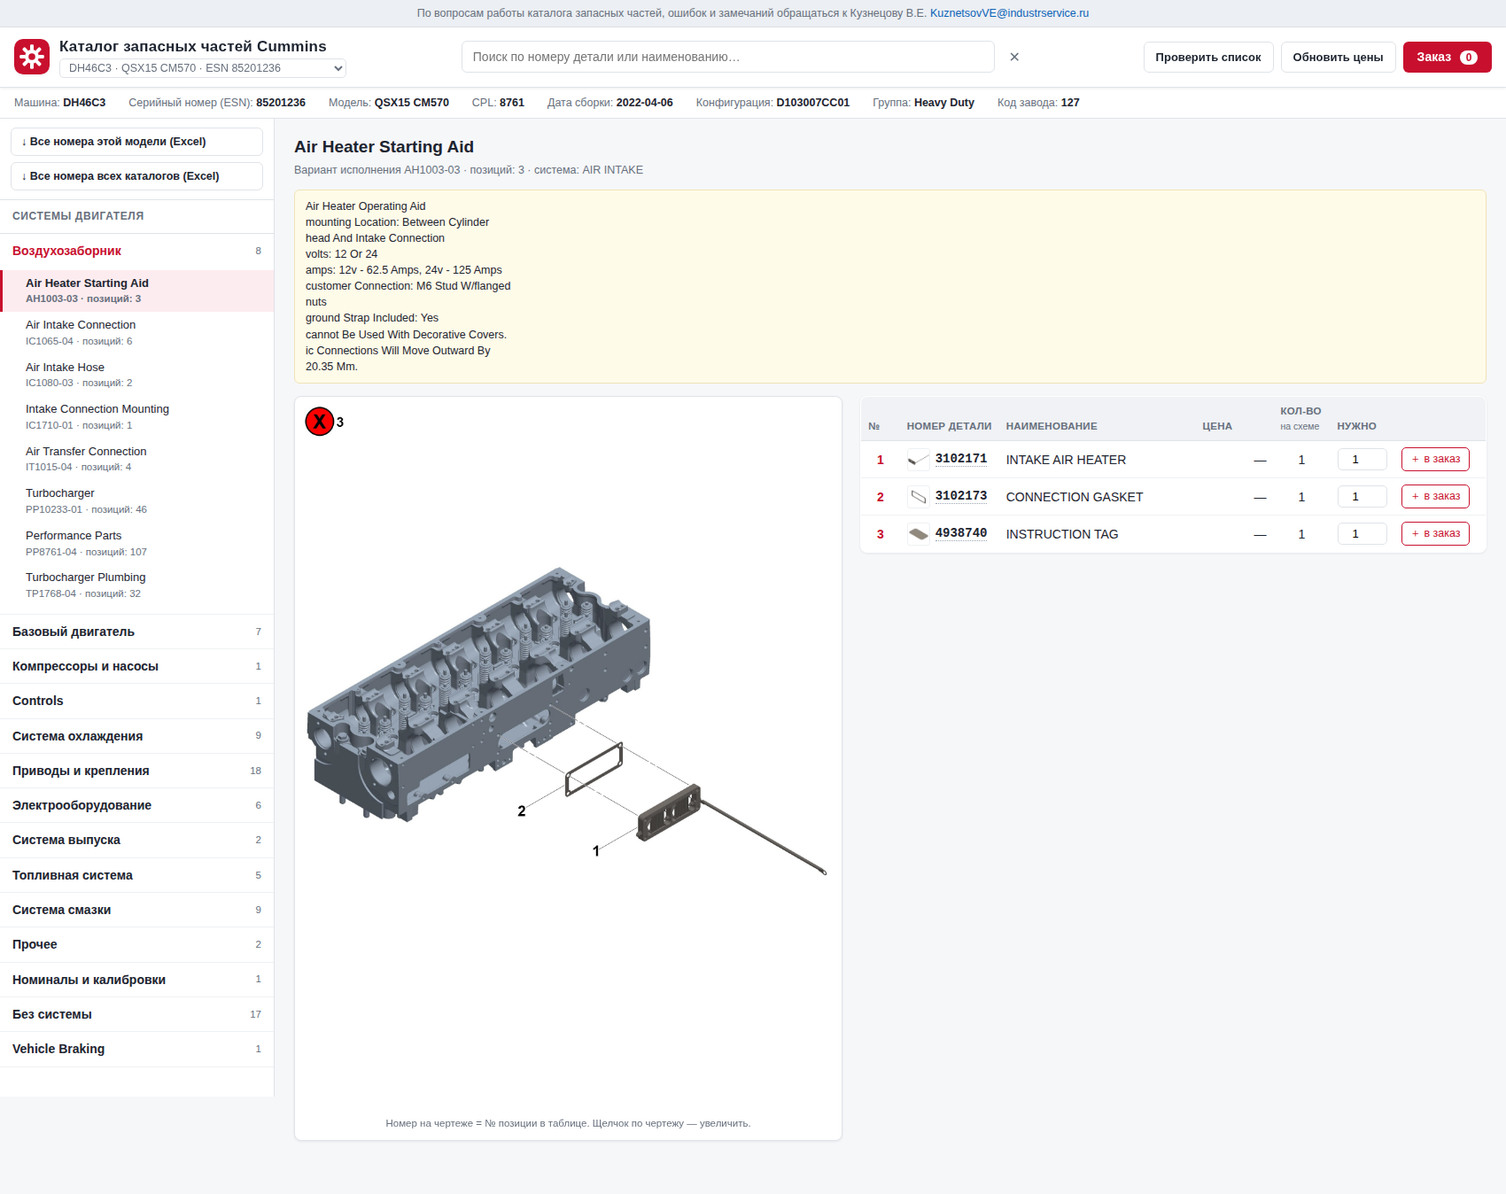
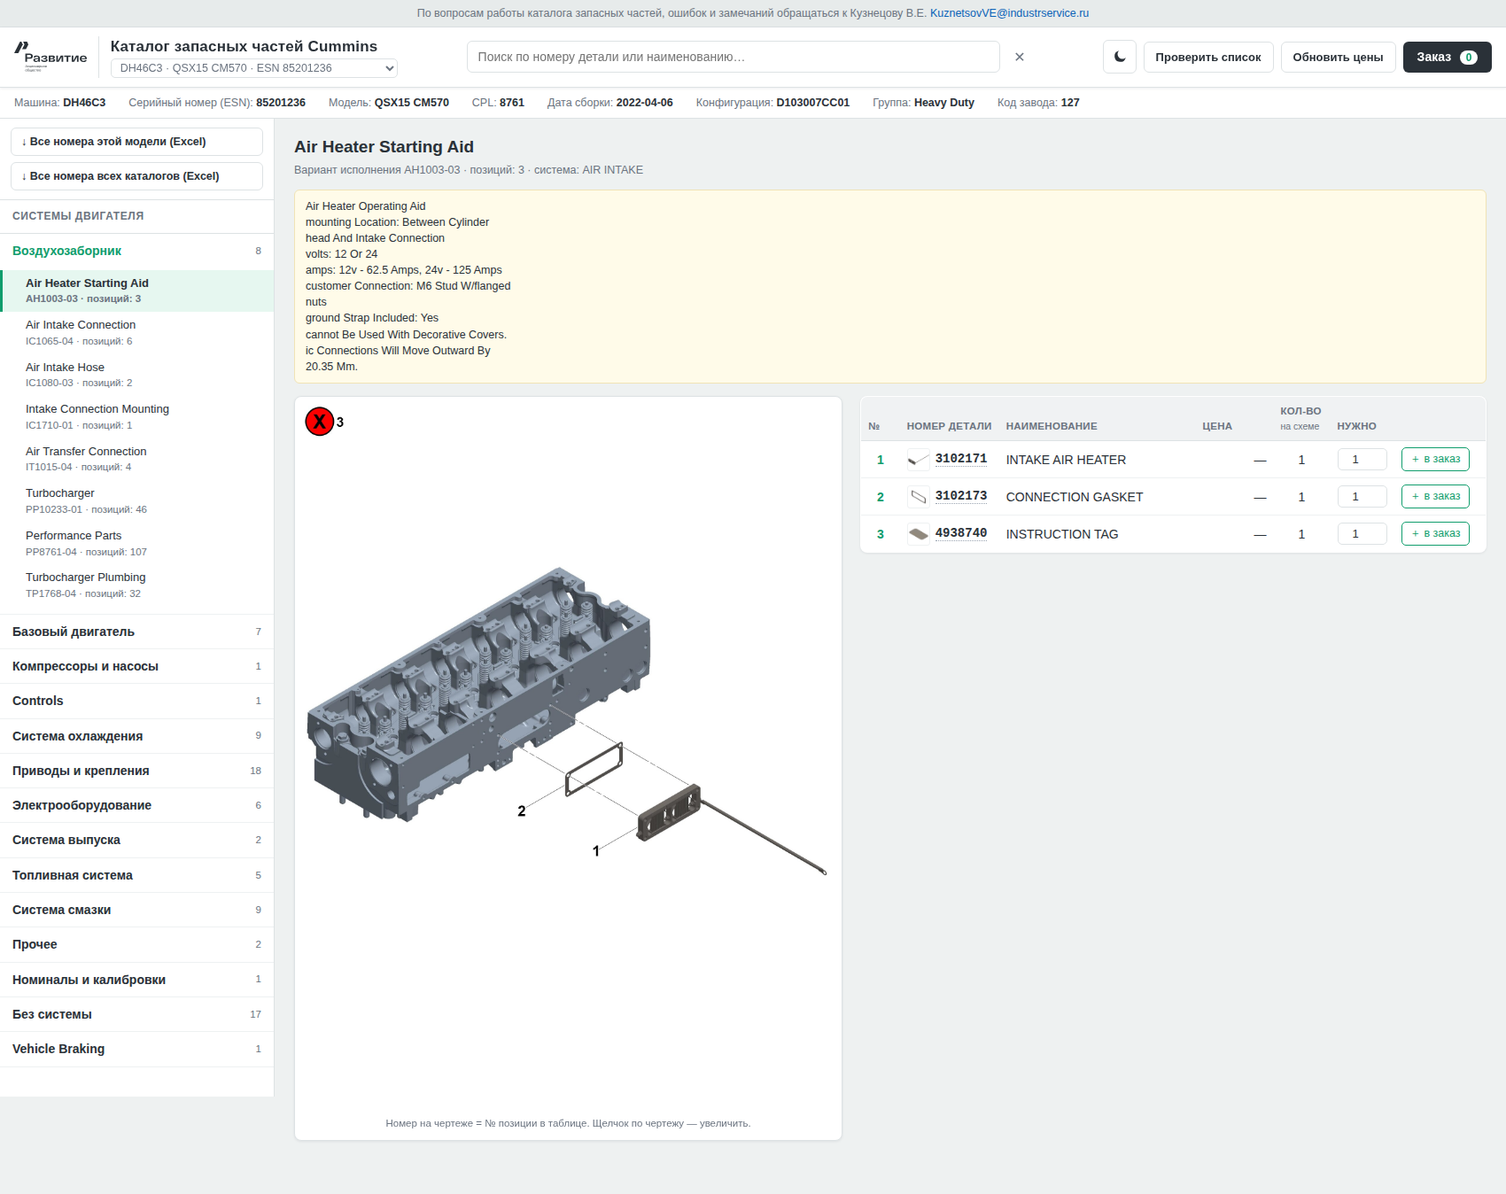
Фирменный стиль «Развитие»: логотип и светлая/тёмная тема
Оформление приведено к брендбуку компании «Развитие» (шаблон из main):
логотип «Развитие» в шапке (векторные лого из брендбука — графитовый
вариант для светлого фона, мятный+белый для тёмного), акцент мятный
#3EF0AF, графит #2A3138, favicon — фирменный знак.

Добавлена тёмная тема и переключатель в шапке (☾/☀): выбор сохраняется
в браузере, при первом открытии берётся из системной настройки
(prefers-color-scheme). Тема применяется до отрисовки — без мигания.
Все цвета переведены на CSS-переменные, обе темы согласованы; чертежи и
фото остаются на белых карточках для читаемости.

Проверено в браузере: обе темы, переключение и запоминание работают,
логотип меняется по теме, verify_catalog.py проходит, ошибок в консоли нет.

Claude-Session: https://claude.ai/code/session_014BttEpUctxYgEDwLWD1A33

diff --git a/catalog/styles.css b/catalog/styles.css
@@ -1,9 +1,38 @@
-/* Каталог запасных частей Cummins — светлое оформление */
-:root{
-  --bg:#f6f7f9; --panel:#ffffff; --line:#dfe3e8; --line-soft:#eef1f4;
-  --text:#1d2430; --muted:#67707d; --accent:#c8102e; --accent-soft:#fdecef;
-  --ok:#1f7a4d; --shadow:0 1px 3px rgba(20,30,50,.08);
+/* Каталог запасных частей Cummins — фирменный стиль «Развитие».
+   Светлая и тёмная темы, переключаются кнопкой в шапке.
+   Акцент — мятный #3EF0AF, графит #2A3138 (по брендбуку). */
+:root, :root[data-theme="light"]{
+  --bg:#eef1f1; --panel:#ffffff; --line:#dde2e4; --line-soft:#eef1f2;
+  --text:#2A3138; --muted:#6b7480;
+  --accent:#2A3138;          /* основная кнопка — графит */
+  --accent-ink:#ffffff;      /* текст на основной кнопке */
+  --accent-hover:#3a444d;
+  --brand:#0f9d6c;           /* фирменный зелёный, читаемый на светлом */
+  --accent-2:#0f9d6c;        /* ссылки, активные элементы, акценты */
+  --accent-soft:#e6f7f0;     /* мягкая зелёная подсветка строки */
+  --ok:#0f8f5c;
+  --th-bg:#f0f2f3; --hover:#f7f9f9; --field:#ffffff; --focus:#dff3ec;
+  --contacts-bg:#e7ebeb; --note-bg:#fffbe9; --note-line:#f0e3b5;
+  --danger:#c02a3a; --danger-soft:#fbeef0;
+  --shadow:0 1px 3px rgba(20,30,50,.08);
 }
+:root[data-theme="dark"]{
+  --bg:#1c2227; --panel:#2A3138; --line:#3b444d; --line-soft:#343d45;
+  --text:#eaeef1; --muted:#9aa5ae;
+  --accent:#3EF0AF;          /* основная кнопка — мятный */
+  --accent-ink:#10261e;      /* тёмный текст на мятной кнопке */
+  --accent-hover:#5cf4bd;
+  --brand:#3EF0AF;
+  --accent-2:#3EF0AF;
+  --accent-soft:#2f3d39;
+  --ok:#3EF0AF;
+  --th-bg:#333c44; --hover:#313a42; --field:#242b31; --focus:rgba(62,240,175,.22);
+  --contacts-bg:#242b31; --note-bg:#3a3a2c; --note-line:#585840;
+  --danger:#ff8a94; --danger-soft:#3a2a2d;
+  --shadow:0 1px 3px rgba(0,0,0,.35);
+}
+html{color-scheme:light}
+:root[data-theme="dark"]{color-scheme:dark}
 *{box-sizing:border-box}
 html,body{margin:0;padding:0}
 body{
@@ -15,7 +44,7 @@ a{color:#0b63b8}
 
 /* --- строка контактов --- */
 .contacts{
-  background:#eceff3; border-bottom:1px solid var(--line);
+  background:var(--contacts-bg); border-bottom:1px solid var(--line);
   padding:6px 16px; font-size:12.5px; color:var(--muted); text-align:center;
 }
 .contacts a{color:#0b63b8; text-decoration:none}
@@ -33,22 +62,22 @@ a{color:#0b63b8}
 .search-box{flex:1; display:flex; align-items:center; gap:6px; max-width:640px; margin:0 auto}
 .search-box input{
   flex:1; padding:9px 12px; border:1px solid var(--line); border-radius:6px;
-  font-size:14px; background:#fff;
+  font-size:14px; background:var(--field); color:var(--text);
 }
-.search-box input:focus{outline:none; border-color:#9fb6d4; box-shadow:0 0 0 3px #e8f0fa}
+.search-box input:focus{outline:none; border-color:var(--accent-2); box-shadow:0 0 0 3px var(--focus)}
 .btn-plain{
   background:none; border:1px solid transparent; color:var(--muted);
   font-size:16px; cursor:pointer; padding:4px 8px; border-radius:5px;
 }
 .btn-plain:hover{background:var(--line-soft); color:var(--text)}
 .btn-cart{
-  background:var(--accent); color:#fff; border:none; border-radius:6px;
+  background:var(--accent); color:var(--accent-ink); border:none; border-radius:6px;
   padding:9px 16px; font-size:14px; font-weight:600; cursor:pointer;
 }
-.btn-cart:hover{background:#a80d26}
+.btn-cart:hover{background:var(--accent-hover)}
 .badge{
   display:inline-block; min-width:20px; padding:1px 6px; margin-left:6px;
-  background:#fff; color:var(--accent); border-radius:10px;
+  background:var(--panel); color:var(--accent-2); border-radius:10px;
   font-size:12px; font-weight:700; text-align:center;
 }
 
@@ -83,7 +112,7 @@ a{color:#0b63b8}
 }
 .tree-sys-head:hover{background:var(--line-soft)}
 .tree-sys-head .cnt{font-size:11.5px; color:var(--muted); font-weight:500}
-.tree-sys.open .tree-sys-head{color:var(--accent)}
+.tree-sys.open .tree-sys-head{color:var(--accent-2)}
 .tree-opts{display:none; padding:2px 0 8px}
 .tree-sys.open .tree-opts{display:block}
 .tree-opt{
@@ -91,14 +120,14 @@ a{color:#0b63b8}
   font-size:13px; color:var(--text); border-left:3px solid transparent;
 }
 .tree-opt:hover{background:var(--line-soft)}
-.tree-opt.active{background:var(--accent-soft); border-left-color:var(--accent); font-weight:600}
+.tree-opt.active{background:var(--accent-soft); border-left-color:var(--accent-2); color:var(--text); font-weight:600}
 .tree-opt .no{color:var(--muted); font-size:11.5px; display:block}
 
 /* --- узел --- */
 .view-title{margin:0 0 4px; font-size:19px}
 .opt-meta{font-size:12.5px; color:var(--muted); margin-bottom:12px}
 .remarks{
-  background:#fffbe9; border:1px solid #f0e3b5; border-radius:6px;
+  background:var(--note-bg); border:1px solid var(--note-line); border-radius:6px;
   padding:9px 12px; margin-bottom:14px; font-size:12.5px; white-space:pre-line;
 }
 .option-body{display:flex; gap:20px; align-items:flex-start}
@@ -125,21 +154,21 @@ a{color:#0b63b8}
 table.parts{width:100%; border-collapse:collapse; background:var(--panel);
   border:1px solid var(--line); border-radius:8px; overflow:hidden; box-shadow:var(--shadow)}
 table.parts th{
-  background:#f0f2f5; text-align:left; font-size:11.5px; letter-spacing:.3px;
+  background:var(--th-bg); text-align:left; font-size:11.5px; letter-spacing:.3px;
   text-transform:uppercase; color:var(--muted); padding:8px 8px; border-bottom:1px solid var(--line);
   vertical-align:bottom;
 }
 .th-sub{text-transform:none; letter-spacing:0; font-weight:400; font-size:10.5px}
 table.parts td{padding:7px 8px; border-bottom:1px solid var(--line-soft); vertical-align:middle}
 table.parts tr:last-child td{border-bottom:none}
-table.parts tr:hover td{background:#fafbfc}
+table.parts tr:hover td{background:var(--hover)}
 .c-pos{width:44px; text-align:center}
 .c-no{width:112px}
 .c-price{width:88px; text-align:right}
 .c-qty{width:64px; text-align:center}
 .c-need{width:72px; text-align:center}
 .c-add{width:104px}
-td.c-pos{text-align:center; font-weight:700; color:var(--accent)}
+td.c-pos{text-align:center; font-weight:700; color:var(--accent-2)}
 td.c-asm{font-size:10px; font-weight:600; color:var(--muted); text-transform:uppercase;
   letter-spacing:.3px; line-height:1.1}
 td.c-qty{text-align:center}
@@ -152,16 +181,16 @@ td.c-price{text-align:right; white-space:nowrap}
 .lvl1 td.c-name{padding-left:22px}
 .lvl2 td.c-name{padding-left:38px}
 .need-input{
-  width:56px; padding:4px 6px; text-align:center;
+  width:56px; padding:4px 6px; text-align:center; background:var(--field); color:var(--text);
   border:1px solid var(--line); border-radius:5px; font-size:13px;
 }
-.need-input:focus{outline:none; border-color:#9fb6d4}
+.need-input:focus{outline:none; border-color:var(--accent-2); box-shadow:0 0 0 3px var(--focus)}
 .btn-add{
-  background:#fff; border:1px solid var(--accent); color:var(--accent);
+  background:var(--field); border:1px solid var(--accent-2); color:var(--accent-2);
   border-radius:5px; padding:4px 9px; font-size:12.5px; cursor:pointer; white-space:nowrap;
 }
-.btn-add:hover{background:var(--accent); color:#fff}
-.btn-add.done{border-color:var(--ok); color:#fff; background:var(--ok)}
+.btn-add:hover{background:var(--accent-2); color:#fff}
+.btn-add.done{border-color:var(--ok); color:var(--accent-ink); background:var(--ok)}
 .no-drawing{padding:26px 12px; text-align:center; color:var(--muted); font-size:13px}
 
 /* --- поиск --- */
@@ -170,11 +199,11 @@ td.c-price{text-align:right; white-space:nowrap}
   padding:9px 12px; margin-bottom:7px; cursor:pointer; display:flex;
   gap:12px; align-items:baseline; box-shadow:var(--shadow);
 }
-.search-hit:hover{border-color:#9fb6d4; background:#fafcff}
+.search-hit:hover{border-color:var(--accent-2); background:var(--hover)}
 .search-hit .hit-no{font-family:Consolas,monospace; font-weight:700; min-width:104px}
 .search-hit .hit-name{flex:1}
 .search-hit .hit-where{font-size:12px; color:var(--muted)}
-mark{background:#ffe9a8; padding:0 1px}
+mark{background:#ffe08a; color:#3a2c00; padding:0 1px; border-radius:2px}
 
 /* --- корзина --- */
 .overlay{position:fixed; inset:0; background:rgba(20,28,40,.35); z-index:40}
@@ -188,7 +217,7 @@ mark{background:#ffe9a8; padding:0 1px}
 .cart-head h2{margin:0; font-size:17px}
 .cart-serial{padding:10px 16px; border-bottom:1px solid var(--line-soft)}
 .cart-serial label{display:block; font-size:12px; color:var(--muted); margin-bottom:4px}
-.cart-serial input{width:100%; max-width:280px; padding:7px 10px;
+.cart-serial input{width:100%; max-width:280px; padding:7px 10px; background:var(--field); color:var(--text);
   border:1px solid var(--line); border-radius:5px; font-size:13px}
 .cart-body{flex:1; overflow-y:auto; padding:8px 16px}
 .cart-table{width:100%; border-collapse:collapse}
@@ -203,11 +232,12 @@ mark{background:#ffe9a8; padding:0 1px}
   display:flex; justify-content:space-between; align-items:center; gap:12px; flex-wrap:wrap}
 .cart-total{font-size:15px}
 .cart-actions{display:flex; gap:8px}
-.btn{background:#fff; border:1px solid var(--line); border-radius:6px;
+.btn{background:var(--field); color:var(--text); border:1px solid var(--line); border-radius:6px;
   padding:8px 14px; font-size:13px; cursor:pointer}
-.btn:hover{background:var(--line-soft)}
-.btn-danger{border-color:#e6b5be; color:var(--accent)}
-.btn-danger:hover{background:var(--accent-soft)}
+.btn:hover{background:var(--hover)}
+.btn:disabled{opacity:.5; cursor:default}
+.btn-danger{border-color:var(--danger); color:var(--danger)}
+.btn-danger:hover{background:var(--danger-soft)}
 
 /* --- карточка детали --- */
 .part-card{
@@ -236,13 +266,13 @@ mark{background:#ffe9a8; padding:0 1px}
 .pc-used span{background:var(--line-soft); border-radius:4px; padding:2px 7px; font-size:12px}
 .sup-chain{display:flex; flex-wrap:wrap; align-items:center; gap:7px}
 .sup-no{font-family:Consolas,monospace; font-weight:700; padding:3px 9px;
-  border:1px solid var(--line); border-radius:5px; background:#fff; cursor:pointer}
-.sup-no.old{color:var(--muted); text-decoration:line-through; background:#f6f7f9}
-.sup-no.cur{border-color:var(--ok); color:var(--ok); background:#f1f9f4}
+  border:1px solid var(--line); border-radius:5px; background:var(--field); cursor:pointer}
+.sup-no.old{color:var(--muted); text-decoration:line-through; background:var(--hover)}
+.sup-no.cur{border-color:var(--ok); color:var(--ok); background:var(--accent-soft)}
 .sup-arrow{color:var(--muted)}
 .sup-note{font-size:12px; color:var(--muted); margin-top:6px}
 .pn-link{cursor:pointer; border-bottom:1px dotted #9aa4b1}
-.pn-link:hover{color:var(--accent); border-bottom-color:var(--accent)}
+.pn-link:hover{color:var(--accent-2); border-bottom-color:var(--accent-2)}
 .chip-sup{display:inline-block; margin-left:6px; font-size:10.5px; font-weight:700;
   color:#8a5b00; background:#fff2cf; border:1px solid #f0dca6; border-radius:9px; padding:0 6px}
 
@@ -268,20 +298,35 @@ mark{background:#ffe9a8; padding:0 1px}
   .cart-table th{color:#000}
 }
 
-/* --- логотип и заголовок в шапке --- */
-.brand{display:flex; align-items:center; gap:11px}
+/* --- логотип «Развитие» и заголовок в шапке --- */
+.brand{display:flex; align-items:center; gap:13px}
 .brand-logo{flex:0 0 auto; display:inline-flex; line-height:0}
-.brand-logo svg{display:block; border-radius:10px; box-shadow:var(--shadow)}
-.brand-text{min-width:0}
+.brand-logo img{display:block; height:34px; width:auto}
+.brand-logo .logo-dark{display:none}
+:root[data-theme="dark"] .brand-logo .logo-light{display:none}
+:root[data-theme="dark"] .brand-logo .logo-dark{display:block}
+.brand-text{min-width:0; border-left:1px solid var(--line); padding-left:13px}
+.brand-title{color:var(--text)}
 
 /* --- инструменты в шапке --- */
 .topbar-tools{display:flex; align-items:center; gap:8px; flex:0 0 auto}
 .btn-tool{
-  background:#fff; border:1px solid var(--line); color:var(--text);
+  background:var(--field); border:1px solid var(--line); color:var(--text);
   border-radius:6px; padding:9px 13px; font-size:13px; font-weight:600;
   cursor:pointer; white-space:nowrap;
 }
-.btn-tool:hover{background:var(--line-soft); border-color:#c3ccd6}
+.btn-tool:hover{background:var(--hover); border-color:var(--accent-2)}
+/* кнопка-иконка (переключатель темы) */
+.btn-icon{
+  display:inline-flex; align-items:center; justify-content:center; width:38px; height:38px;
+  background:var(--field); border:1px solid var(--line); color:var(--text);
+  border-radius:6px; cursor:pointer; flex:0 0 auto;
+}
+.btn-icon:hover{background:var(--hover); border-color:var(--accent-2); color:var(--accent-2)}
+.btn-icon .ico-sun{display:none}
+.btn-icon .ico-moon{display:block}
+:root[data-theme="dark"] .btn-icon .ico-sun{display:block}
+:root[data-theme="dark"] .btn-icon .ico-moon{display:none}
 
 /* --- кнопки выгрузки в боковой панели --- */
 .sidebar-export{
@@ -290,10 +335,10 @@ mark{background:#ffe9a8; padding:0 1px}
 }
 .btn-export{
   display:block; width:100%; text-align:left;
-  background:#fff; border:1px solid var(--line); color:var(--text);
+  background:var(--field); border:1px solid var(--line); color:var(--text);
   border-radius:6px; padding:8px 11px; font-size:12.5px; font-weight:600; cursor:pointer;
 }
-.btn-export:hover{background:var(--accent-soft); border-color:#e6b5be; color:var(--accent)}
+.btn-export:hover{background:var(--accent-soft); border-color:var(--accent-2); color:var(--accent-2)}
 
 /* --- боковая панель проверки списка --- */
 .side-panel{
@@ -305,9 +350,10 @@ mark{background:#ffe9a8; padding:0 1px}
 .check-hint{font-size:12.5px; color:var(--muted); margin:0 0 10px}
 #check-input{
   width:100%; padding:10px 12px; border:1px solid var(--line); border-radius:7px;
-  font:13px/1.4 Consolas,"Courier New",monospace; resize:vertical; background:#fff;
+  font:13px/1.4 Consolas,"Courier New",monospace; resize:vertical;
+  background:var(--field); color:var(--text);
 }
-#check-input:focus{outline:none; border-color:#9fb6d4; box-shadow:0 0 0 3px #e8f0fa}
+#check-input:focus{outline:none; border-color:var(--accent-2); box-shadow:0 0 0 3px var(--focus)}
 .check-actions{display:flex; flex-wrap:wrap; gap:8px; margin:12px 0}
 .check-summary{display:flex; flex-wrap:wrap; gap:8px; margin:6px 0 12px}
 .check-summary .pill{
@@ -326,7 +372,7 @@ mark{background:#ffe9a8; padding:0 1px}
 }
 .check-results td{padding:6px 8px; border-bottom:1px solid var(--line-soft); vertical-align:top}
 .check-results .r-no{font-family:Consolas,monospace; font-weight:700; white-space:nowrap}
-.check-results tr.st-no td{background:#fdf4f5}
+.check-results tr.st-no td{background:var(--danger-soft)}
 .status{display:inline-block; font-size:11.5px; font-weight:700; border-radius:9px; padding:1px 8px}
 .status.ok{background:#f1f9f4; color:var(--ok)}
 .status.sup{background:#fff2cf; color:#8a5b00}
@@ -342,7 +388,7 @@ mark{background:#ffe9a8; padding:0 1px}
 
 /* переключатель двигателя и подпись в заказе */
 #engine-select{
-  border:1px solid var(--line); border-radius:5px; background:#fff;
+  border:1px solid var(--line); border-radius:5px; background:var(--field);
   font-size:12.5px; color:var(--muted); padding:2px 6px; max-width:420px;
 }
 #engine-select:disabled{border-color:transparent; background:none; -webkit-appearance:none; appearance:none}

diff --git a/catalog/index.html b/catalog/index.html
@@ -4,7 +4,16 @@
 <meta charset="utf-8">
 <meta name="viewport" content="width=device-width, initial-scale=1">
 <title>Каталог запасных частей Cummins</title>
+<link rel="icon" href="brand/razvitie-mark.svg">
 <link rel="stylesheet" href="styles.css">
+<script>
+  /* тема применяется до отрисовки, чтобы не мигало */
+  (function(){try{
+    var t=localStorage.getItem("cummins_theme");
+    if(!t)t=matchMedia("(prefers-color-scheme: dark)").matches?"dark":"light";
+    document.documentElement.setAttribute("data-theme",t);
+  }catch(e){document.documentElement.setAttribute("data-theme","light");}})();
+</script>
 </head>
 <body>
 
@@ -15,22 +24,9 @@
 
 <header class="topbar">
   <div class="brand">
-    <span class="brand-logo" aria-hidden="true">
-      <svg viewBox="0 0 48 48" width="40" height="40" role="img" aria-label="Логотип">
-        <rect width="48" height="48" rx="10" fill="var(--accent)"/>
-        <g fill="#fff" transform="translate(24,24)">
-          <rect x="-2.4" y="-16.5" width="4.8" height="8" rx="1.6"/>
-          <rect x="-2.4" y="-16.5" width="4.8" height="8" rx="1.6" transform="rotate(45)"/>
-          <rect x="-2.4" y="-16.5" width="4.8" height="8" rx="1.6" transform="rotate(90)"/>
-          <rect x="-2.4" y="-16.5" width="4.8" height="8" rx="1.6" transform="rotate(135)"/>
-          <rect x="-2.4" y="-16.5" width="4.8" height="8" rx="1.6" transform="rotate(180)"/>
-          <rect x="-2.4" y="-16.5" width="4.8" height="8" rx="1.6" transform="rotate(225)"/>
-          <rect x="-2.4" y="-16.5" width="4.8" height="8" rx="1.6" transform="rotate(270)"/>
-          <rect x="-2.4" y="-16.5" width="4.8" height="8" rx="1.6" transform="rotate(315)"/>
-          <circle r="9.5"/>
-        </g>
-        <circle cx="24" cy="24" r="4.6" fill="var(--accent)"/>
-      </svg>
+    <span class="brand-logo" aria-label="Развитие">
+      <img class="logo-light" src="brand/razvitie-light.svg" alt="Развитие">
+      <img class="logo-dark"  src="brand/razvitie-dark.svg"  alt="Развитие">
     </span>
     <div class="brand-text">
       <div class="brand-title">Каталог запасных частей Cummins</div>
@@ -45,6 +41,16 @@
     <button id="search-clear" class="btn-plain" title="Очистить">✕</button>
   </div>
   <div class="topbar-tools">
+    <button id="theme-toggle" class="btn-icon" title="Светлая / тёмная тема" aria-label="Переключить тему">
+      <svg class="ico-sun" viewBox="0 0 24 24" width="18" height="18" fill="none"
+           stroke="currentColor" stroke-width="2" stroke-linecap="round">
+        <circle cx="12" cy="12" r="4.2"/>
+        <path d="M12 2.5v2.5M12 19v2.5M2.5 12h2.5M19 12h2.5M5 5l1.8 1.8M17.2 17.2 19 19M19 5l-1.8 1.8M6.8 17.2 5 19"/>
+      </svg>
+      <svg class="ico-moon" viewBox="0 0 24 24" width="18" height="18" fill="currentColor">
+        <path d="M21 13.2A8.5 8.5 0 1 1 10.8 3 6.8 6.8 0 0 0 21 13.2Z"/>
+      </svg>
+    </button>
     <button id="check-list" class="btn-tool"
             title="Проверить свой список номеров на наличие в каталоге">Проверить список</button>
     <button id="update-prices" class="btn-tool"

diff --git a/catalog/app.js b/catalog/app.js
@@ -999,6 +999,16 @@ $("price-file").addEventListener("change", function () {
   this.value = "";
 });
 
+/* --- переключатель светлой/тёмной темы (по брендбуку «Развитие») --- */
+function currentTheme() { return document.documentElement.getAttribute("data-theme") || "light"; }
+function setTheme(t) {
+  document.documentElement.setAttribute("data-theme", t);
+  try { localStorage.setItem("cummins_theme", t); } catch (e) {}
+}
+$("theme-toggle").onclick = function () {
+  setTheme(currentTheme() === "dark" ? "light" : "dark");
+};
+
 document.addEventListener("keydown", function (e) {
   if (e.key === "Escape") { closeCart(); closePartCard(); closeCheck(); }
 });
